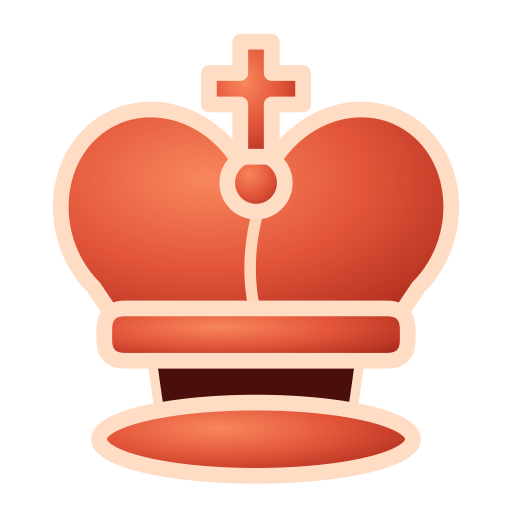
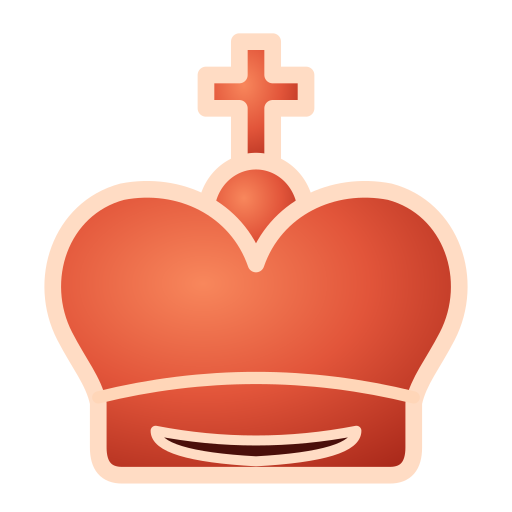
Redesign king in the classic style
Two broad lobes with the dome between them, a cross on top, and a
short solid band with a dark slot underneath, replacing the separate
waist and floating oval base.

Claude-Session: https://claude.ai/code/session_01CT1Vg17f3hVAVwgWoaKGNL

diff --git a/source/make_pieces.py b/source/make_pieces.py
@@ -101,17 +101,26 @@ def knight():
         ("slot", circ(nx, ny, 1.6)),                                          # nostril
     ]
 
+def squeeze_x(path, k, cx=50):
+    """Scale a path's x coordinates about cx (paths here use absolute M/L/C/Q commands only)."""
+    import re
+    def f(m):
+        x, y = float(m.group(1)), m.group(2)
+        return f"{cx + (x - cx) * k:.2f},{y}"
+    return re.sub(r"(-?\d+(?:\.\d+)?),(-?\d+(?:\.\d+)?)", f, path)
+
 def king():
-    crown = ("M50,42 C48,28 35,20 24,24 C11,29 9,47 19,57 L25,66 L75,66 L81,57 "
-             "C91,47 89,29 76,24 C65,20 52,28 50,42 Z")              # two convex lobes
+    # classic king: cross, dome peeking between two broad lobes, short solid band underneath
+    K = 0.86
+    body = ("M50,46 C46,36 34,31 22,33 C9,36 4,49 10,59 C13,64 16,67 17,71 L17,79 "
+            "Q17,84 22,84 L78,84 Q83,84 83,79 L83,71 C84,67 87,64 90,59 "
+            "C96,49 91,36 78,33 C66,31 54,36 50,46 Z")
     return [
-        ("slot", "M30,70 L70,70 L68,84 L32,84 Z"),
-        ("body", ell(50, 86, 30, 7)),
-        ("body", crown),
-        ("line", "M50,44 C48.5,50 48.5,57 50,62"),                       # seam between the lobes
-        ("body", rr(21, 61, 79, 71, 4)),                              # crown band
-        ("body", circ(50, 37, 5.5)),                                  # centre knob
-        ("body", "M47,10 L53,10 L53,16 L59,16 L59,22 L53,22 L53,32 L47,32 L47,22 L41,22 L41,16 L47,16 Z"),  # cross
+        ("body", "M47,6 L53,6 L53,12 L59,12 L59,18 L53,18 L53,28 L47,28 L47,18 L41,18 L41,12 L47,12 Z"),  # cross
+        ("body", ell(50, 37, 9, 9.5)),                                                  # dome
+        ("body", squeeze_x(body, K)),
+        ("line", squeeze_x("M17,70 Q50,63 83,70", K)),                                # top of the band
+        ("slot", squeeze_x("M29,76 Q50,79.5 71,76 Q71,80.5 50,81.5 Q29,80.5 29,76 Z", K)),  # dark slot
     ]
 
 def queen():
